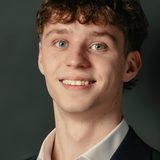
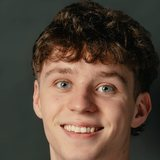
Headshot: new photo, full hair, centred

diff --git a/index.html b/index.html
@@ -630,7 +630,7 @@ addEventListener('pagereveal', function (e) {
       <path transform="translate(15.52 30) scale(0.0100 -0.0100)" fill="currentColor" d="M1376 1238H388L505 1266L268 959L208 975L378 1426H417L511 1333L430 1352H1411L1310 1333L1468 1426H1506L1409 960H1351L1308 1266ZM800 1283H1008L646 96L787 50L772 0H260L275 50L439 99Z"/>
     </svg>
   </a>
-  <picture class="te__photo"><source type="image/webp" srcset="/images/home/logan-160.webp?v=3"><img src="/images/home/logan-160.jpg?v=3" alt="" width="32" height="32" decoding="async"></picture>
+  <picture class="te__photo"><source type="image/webp" srcset="/images/home/logan-160.webp?v=4"><img src="/images/home/logan-160.jpg?v=4" alt="" width="32" height="32" decoding="async"></picture>
   <p class="te__who"><span class="te__who-n">Logan Tempany</span><span class="te__who-x"> · </span>Tempany Web Studios<span class="te__who-x">, Dollar</span></p>
   <nav class="te__nav" aria-label="Sections of this page">
     <ul>
@@ -1079,8 +1079,8 @@ addEventListener('pagereveal', function (e) {
   <section id="me" class="act act--me" aria-labelledby="me-h">
     <div class="wrap me">
       <picture class="me__photo">
-        <source type="image/webp" srcset="/images/home/logan-280.webp?v=3 280w, /images/home/logan-480.webp?v=3 480w" sizes="(min-width: 720px) 200px, 140px">
-        <img src="/images/home/logan-280.jpg?v=3" srcset="/images/home/logan-280.jpg?v=3 280w, /images/home/logan-480.jpg?v=3 480w" sizes="(min-width: 720px) 200px, 140px" alt="Logan Tempany, who designs, writes and builds every site." width="200" height="200" loading="lazy" decoding="async">
+        <source type="image/webp" srcset="/images/home/logan-280.webp?v=4 280w, /images/home/logan-480.webp?v=4 480w" sizes="(min-width: 720px) 200px, 140px">
+        <img src="/images/home/logan-280.jpg?v=4" srcset="/images/home/logan-280.jpg?v=4 280w, /images/home/logan-480.jpg?v=4 480w" sizes="(min-width: 720px) 200px, 140px" alt="Logan Tempany, who designs, writes and builds every site." width="200" height="200" loading="lazy" decoding="async">
       </picture>
       <div class="me__text">
         <h2 id="me-h">It's just me.</h2>
